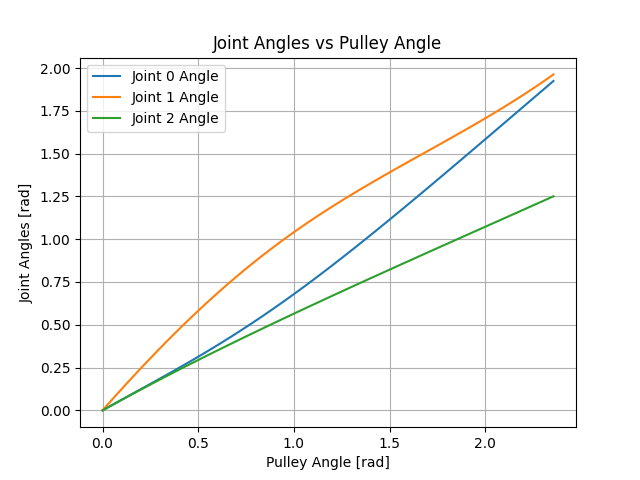
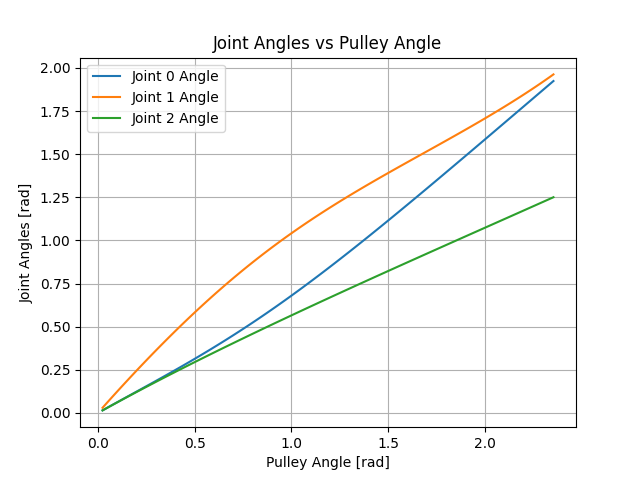
Test of new function

diff --git a/main.py b/main.py
@@ -41,7 +41,7 @@ def main():
 
     # Simulation parameters
     num_simulations = 100
-    pulley_angles = np.linspace(0, 3 * np.pi / 4, num_simulations)
+    pulley_angles = np.linspace(0.01*3 * np.pi / 4, 3 * np.pi / 4, num_simulations)
 
     # Run the simulation
     joint_angles, tendon_tensions, motor_torque, errors = kinematics_simulation(finger_3, pulley_angles)
@@ -82,7 +82,7 @@ def main():
 
     # Simulation parameters
     num_simulations = 100
-    pulley_angles = np.linspace(0, 3 * np.pi / 4, num_simulations)
+    pulley_angles = np.linspace(0.01*3 * np.pi / 4, 3 * np.pi / 4, num_simulations)
 
     # Run the simulation
     joint_angles, tendon_tensions, motor_torque, errors = kinematics_simulation(finger_2, pulley_angles)
